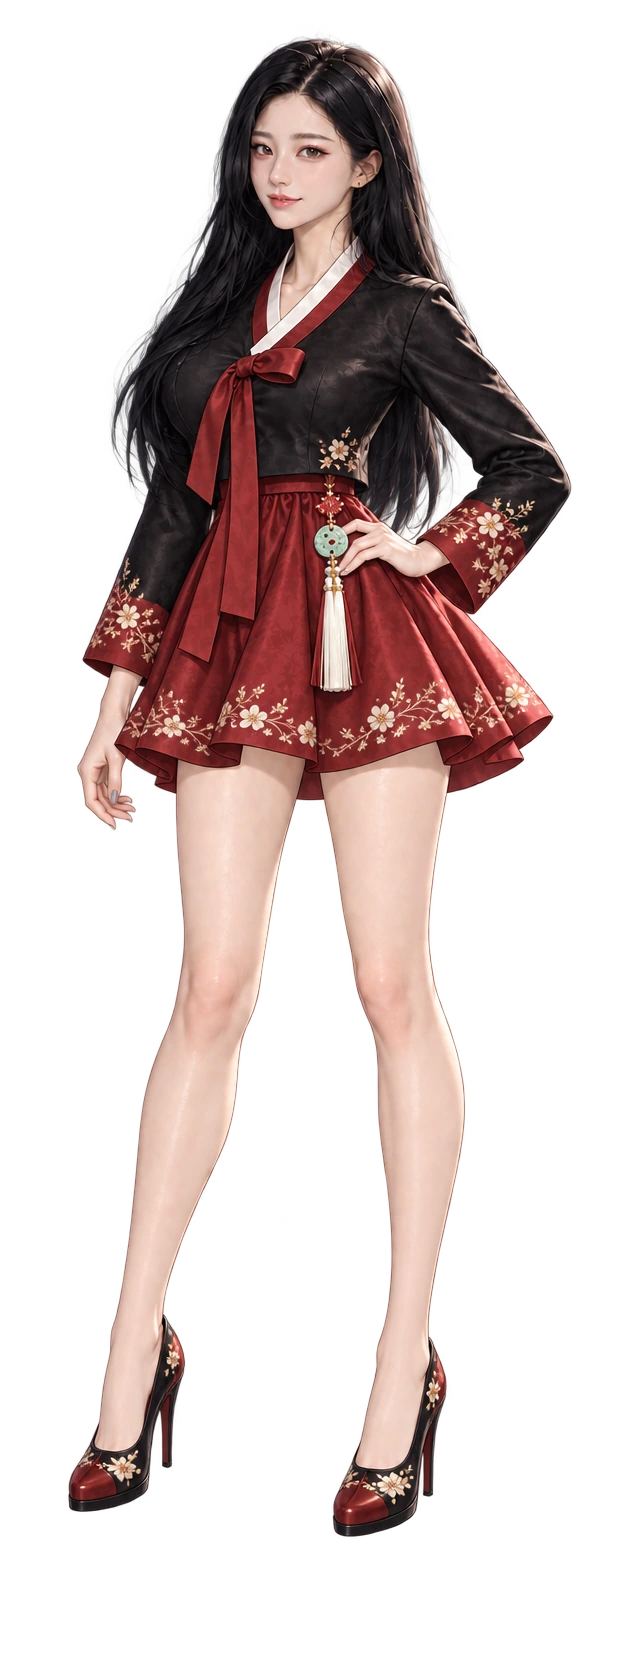
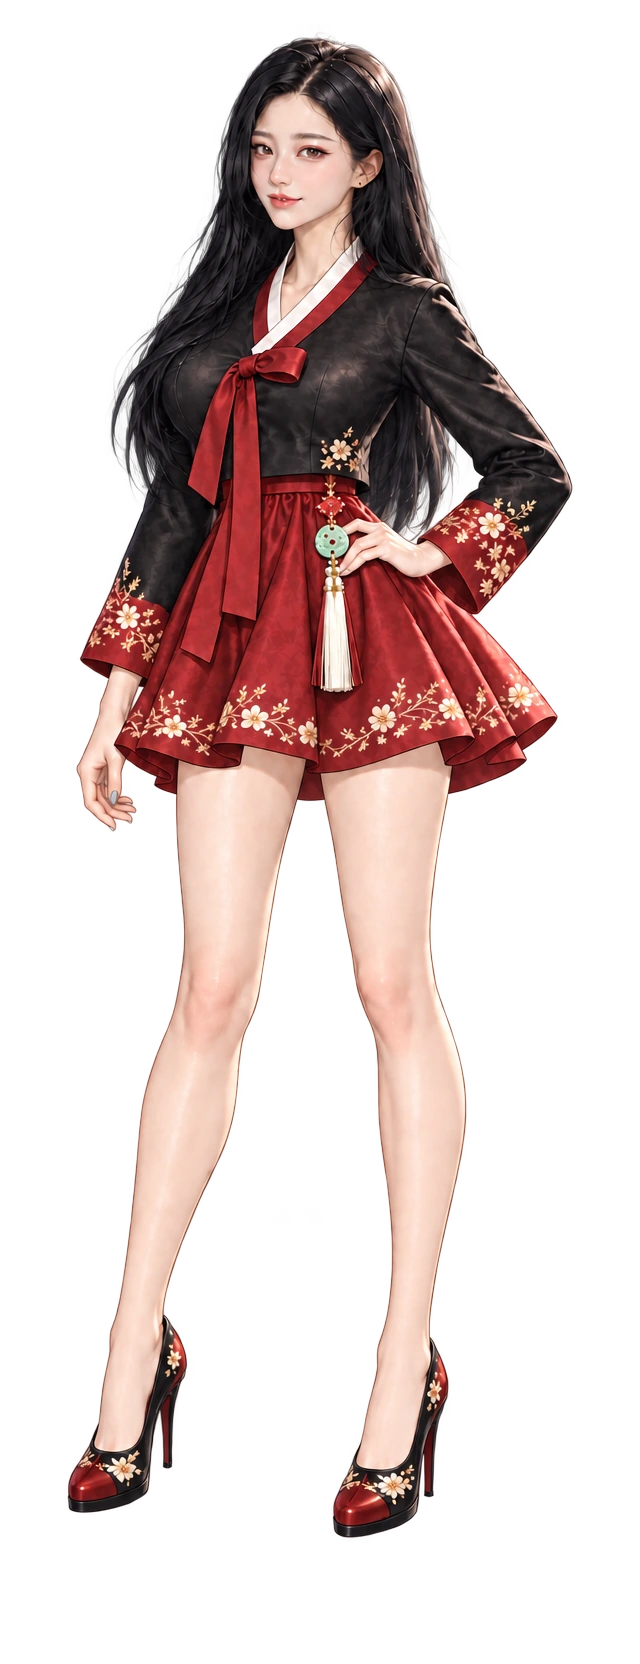
fix: balance Joeun hanbok chest artwork in lobby and equipment

diff --git a/preview/avatar-clan-hanbok-v1/README.md b/preview/avatar-clan-hanbok-v1/README.md
@@ -1,5 +1,14 @@
 # 클랜 한복 — 로비·장비창 운영 리소스
 
+## 조은 좌우 균형 보정 — 2026-09-28
+
+- 사용자 요청으로 조은의 검은 저고리 아래 좌우 가슴 볼륨·높이와 옷의 음영을 맞췄다. 얼굴·포즈·한복 구성과 한옥 배경은 유지하는 국소 편집이며, built-in `image_gen`을 사용했다.
+- 원본 V1 두 장은 그대로 보존하고 `assets/joeun-equipment-source-art-v2.png`, `assets/joeun-lobby-source-art-v2.png`를 별도 저장했다. 최종 입력·출력·프롬프트는 `joeun-balance-v2.prompts.json`에 있다.
+- `node preview/avatar-clan-hanbok-v1/apply-joeun-balance-v2.mjs`는 조은의 PC/모바일 로비·장비창 WebP 3개와 해당 매니페스트 항목만 갱신한다. 기존 전체 빌더도 마지막에 이 보정을 적용해 V1로 되돌리지 않는다. 다른 7종 원화·파생물은 변경하지 않는다.
+- 기존 운영 이미지 경로와 장비창 640×1664 캔버스를 유지한다. DB·장착·소유권·기한·효과 및 게임 로직 변경은 없다. `/preview/*`의 ETag 재검증과 서비스워커 이미지 갱신 정책을 사용한다.
+- 관련 검사는 조은 원화/장비창 투명도·여백·크기·해시와 기존 한복 자산 연결 검사로 제한한다. 전체 게임 검사는 실행하지 않는다.
+- 직전 운영 소스는 `74d6f8640818bc149236e9c92b3b92a6866de5d2`(Pages `09c37fbc-6b2e-4e30-88e6-7431c795c535`). 그 이후 main에 이미 있던 운영 스크립트·테스트 파일이 자산 전용 명령의 허용 범위 밖이므로, 한복 자산 검사만 지정한 `deploy:production -- --scoped`를 사용한다.
+
 2026-09-27 사용자 지시: 현재 클랜 아바타 전체를 이전에 준비한 한복으로 교체하고 장비창 캐릭터 리소스도 준비한다.
 
 ## 확인한 대상
